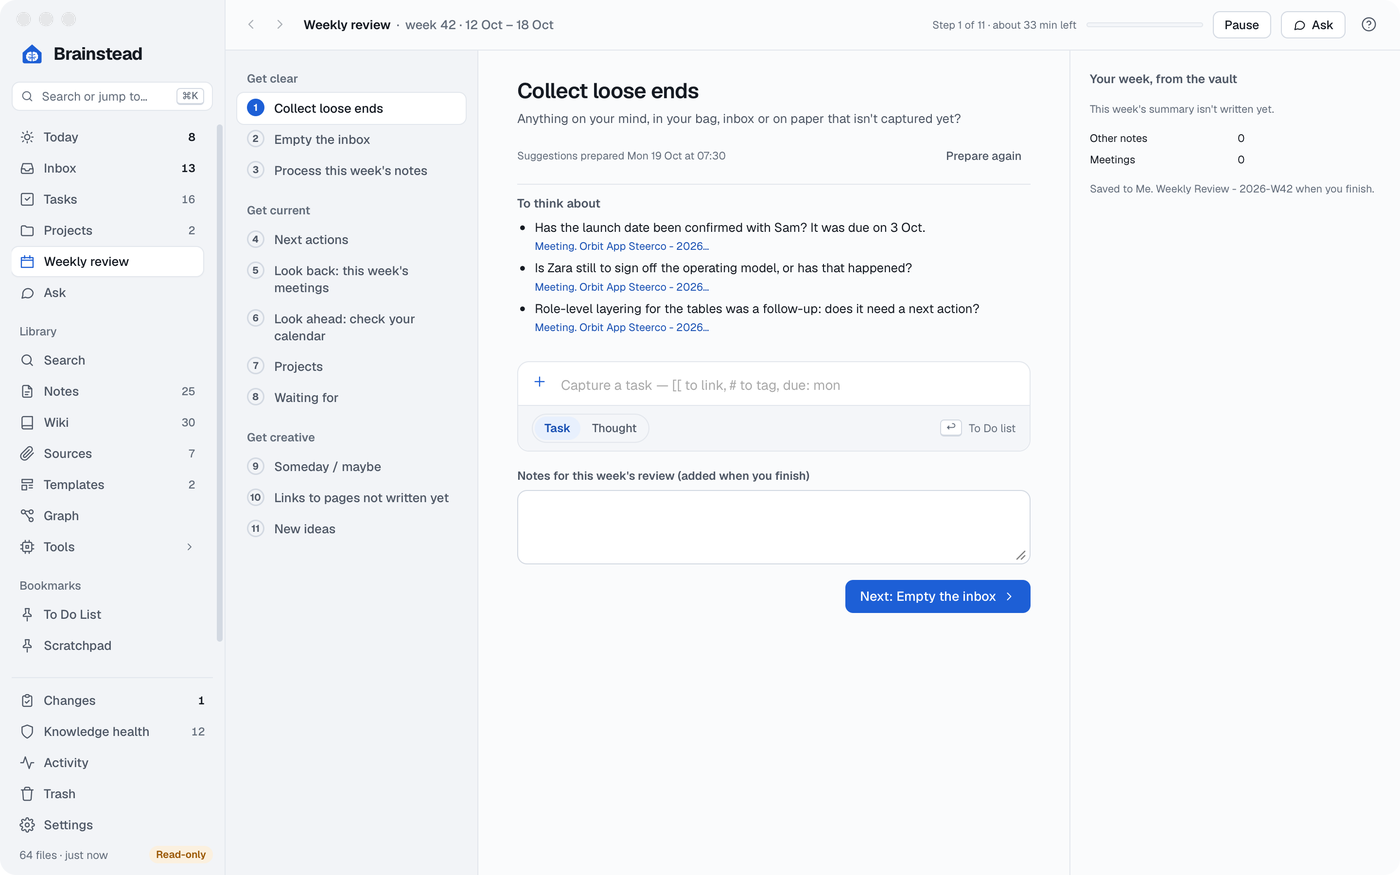
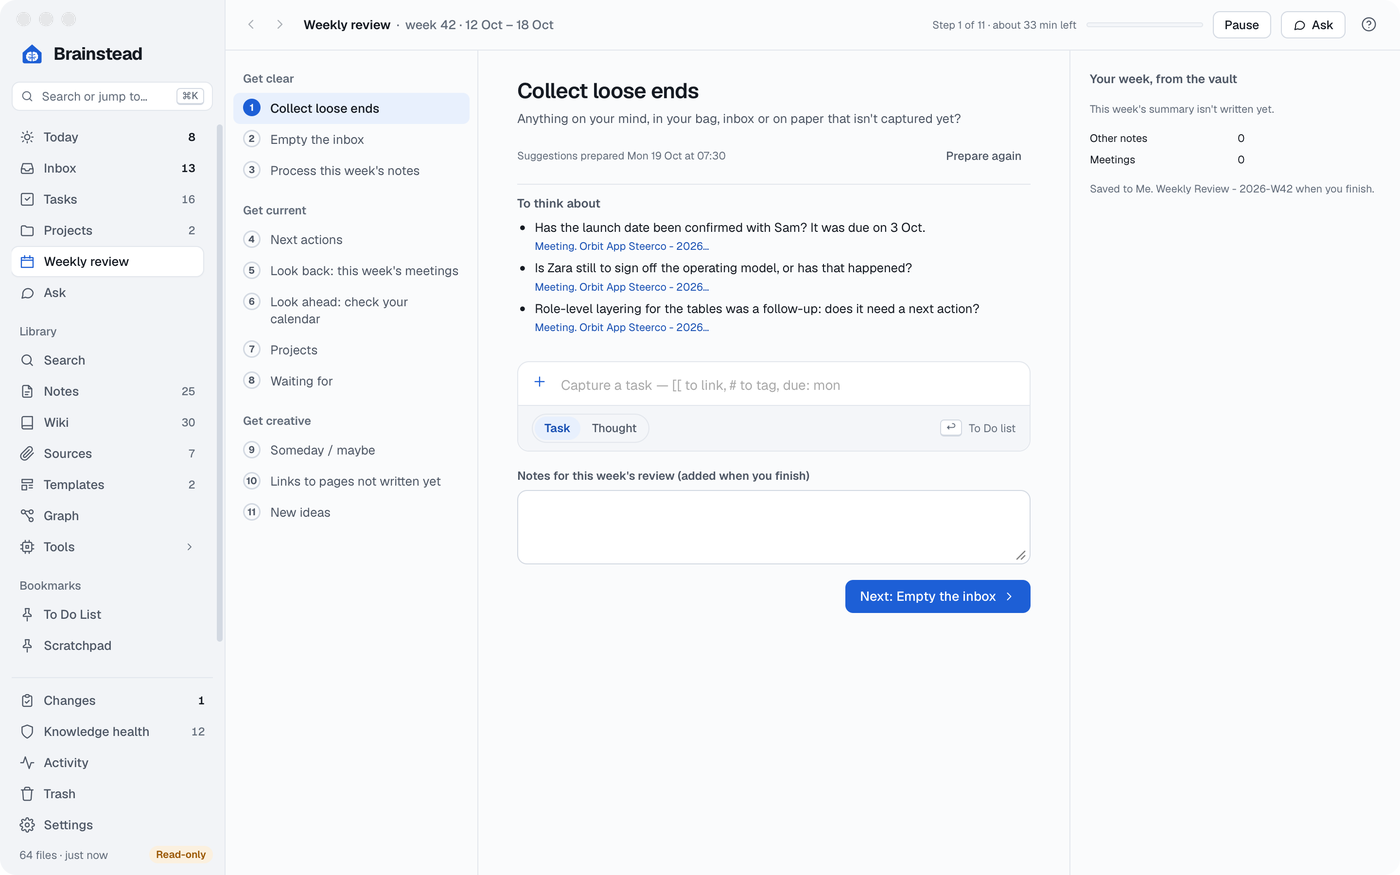
Weekly review's steps pane in the left panes' look: on the page's ground, regular-weight steps, the current one selected in accent-soft as elsewhere

Changed region(s): [[0.1536, 0.0617, 0.3071, 0.6171]]

diff --git a/src/styles.css b/src/styles.css
@@ -6771,9 +6771,8 @@ select.sel {
   overflow: hidden;
 }
 .wsteps {
-  background: var(--side);
   border-right: 1px solid var(--line);
-  padding: 4px 12px;
+  padding: 4px 8px;
   overflow-y: auto;
 }
 .wph {
@@ -6794,7 +6793,7 @@ select.sel {
   border: 0;
   border-radius: 7px;
   background: none;
-  font: 500 13px/1.35 var(--sans);
+  font: 400 13px/1.35 var(--sans);
   color: var(--ink2);
   cursor: pointer;
   text-align: left;
@@ -6817,10 +6816,12 @@ select.sel {
   background: var(--green-soft, var(--accent-soft));
   color: var(--green);
 }
+
+/* The step you're on, as the other left panes show their selection. */
 .wst.now {
-  background: var(--surface);
+  background: var(--accent-soft);
   color: var(--ink);
-  box-shadow: 0 0 0 1px var(--line);
+  font-weight: 500;
 }
 .wst.now .sd {
   border-color: transparent;
